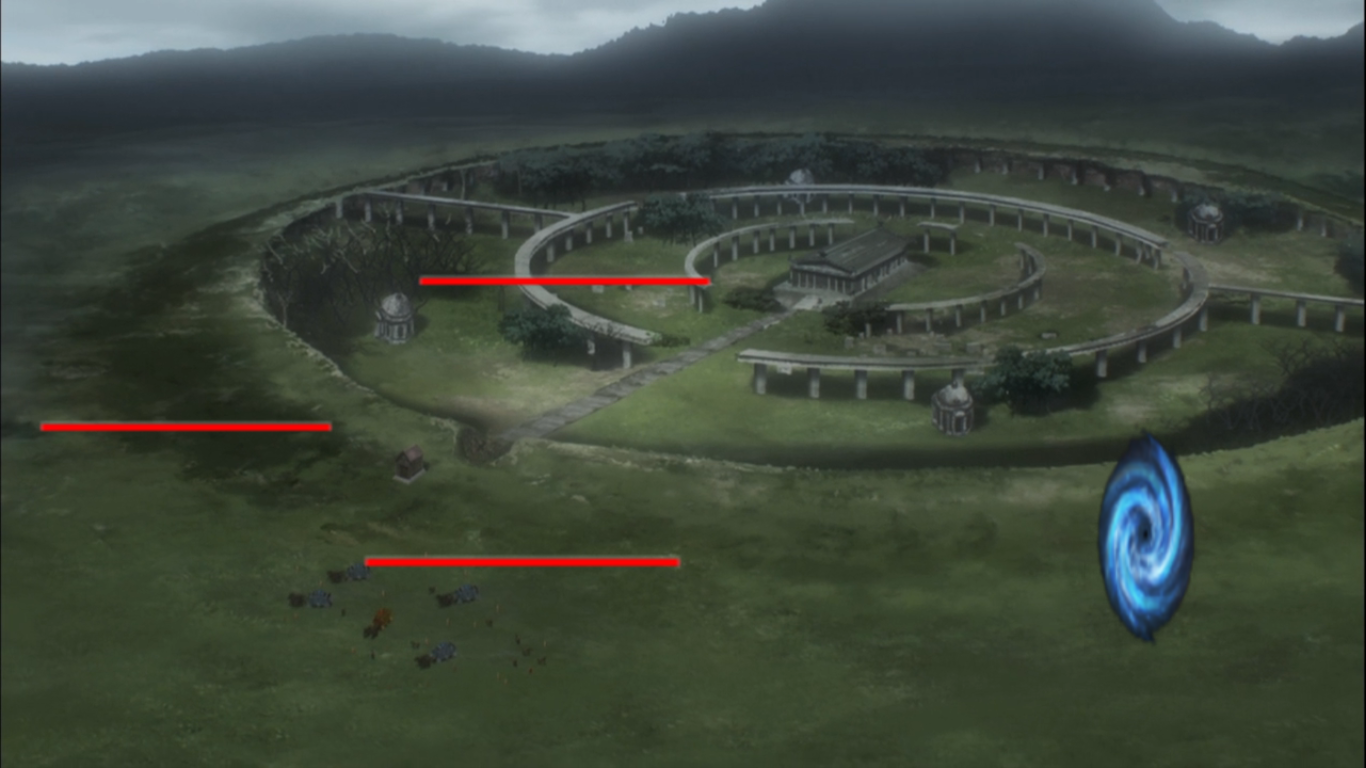
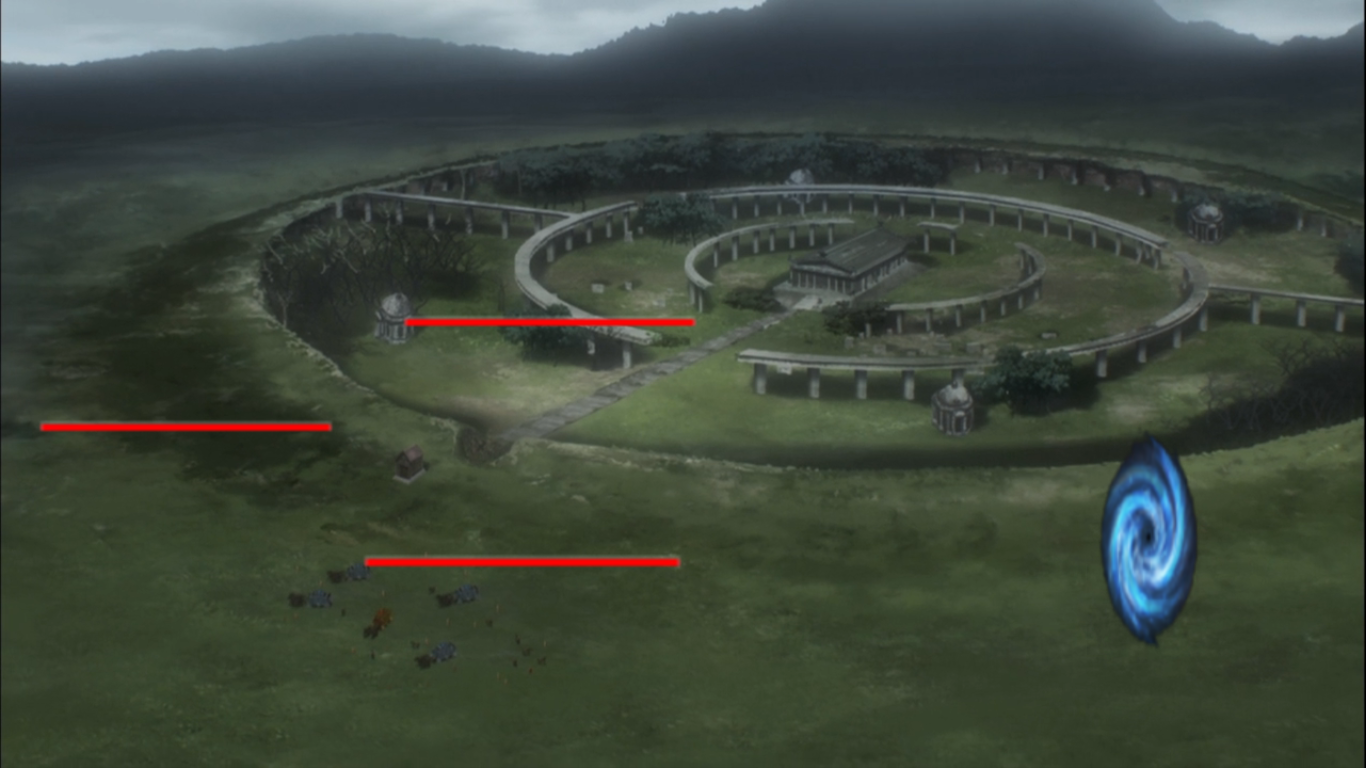
objetivos primer nivel, colisión

Changed region(s): [[0.7994, 0.5938, 0.8917, 0.8125], [0.2767, 0.4062, 0.5227, 0.4375], [0.3075, 0.3438, 0.5227, 0.375]]

diff --git a/juego2020/mainwindow.cpp b/juego2020/mainwindow.cpp
@@ -118,6 +118,10 @@ void MainWindow::niveles(){
         scene->setBackgroundBrush(QPixmap(":/imagen/Overlord_III_EP09_022 (1).png"));
         ui->graphicsView->resize(scene->width(),scene->height());
         this->resize(ui->graphicsView->width()+100, ui->graphicsView->height()+100);
+        anillo1= new Anillo(910,140,50,50);scene->addItem(anillo1);anillos.push_back(anillo1);
+        anillo2= new Anillo(910,305,50,50);scene->addItem(anillo2);anillos.push_back(anillo2);
+        anillo3= new Anillo(910,480,50,50);scene->addItem(anillo3);anillos.push_back(anillo3);
+
         if (n==2){
             contadorparaenemigos();
         }
@@ -165,7 +169,7 @@ void MainWindow::bordercollision(actualizaciones *b)//son los choques con los bo
         if(b->get_posX()>h_limit-b->get_Radio()*2){//colisión con el borde derecho.
             b->set_vel(-1*b->get_e()*b->get_velX(),b->get_velY(), h_limit, b->get_posY());
             n=2;
-            b->set_vel(0,0, 60, 420);
+            b->set_vel(0,0, 60, 20);
             niveles();
         }
         if(b->get_posY()<((b->get_Radio()))){//colisión con el borde superior.
@@ -191,6 +195,15 @@ void MainWindow::bordercollision(actualizaciones *b)//son los choques con los bo
         }
         if(b->get_posY()>v_limit){//choque con el borde inferior.
             b->set_vel(b->get_velX(),-1*b->get_e()*b->get_velY(), b->get_posX(), (v_limit+400));
+        }
+        if (b->get_posY() >= 150 && b->get_posY() < 160 && b->get_posX() >= 330 && b->get_posX() < 670 ){
+            b->set_vel(b->get_velX(), -1*b->get_e()*b->get_velY(),b->get_posX(), 95+b->get_Radio());
+        }
+        if (b->get_posY() >= 282 && b->get_posY() < 292 && b->get_posX() >= 30 && b->get_posX() < 312 ){
+            b->set_vel(b->get_velX(), -1*b->get_e()*b->get_velY(),b->get_posX(), 227+b->get_Radio());
+        }
+        if (b->get_posY() >= 390 && b->get_posY() < 400 && b->get_posX() >= 360 && b->get_posX() < 680 ){
+            b->set_vel(b->get_velX(), -1*b->get_e()*b->get_velY(),b->get_posX(), 335+b->get_Radio());
         }
     }
     if (n==3){
@@ -334,7 +347,7 @@ void MainWindow::keyPressEvent(QKeyEvent *event)
                 b->set_vel(-30,b->get_velY(),b->get_posX(), b->get_posY());     //se conecta con la fución set_vel ubicada en actualizaciones y te pide como parametros velocidad en x y en y, y la posición en x y en y
             }
             if (event->key() == Qt::Key_W){         //con W de salta
-                if(b->get_posY() >= 0 && b->get_posY() < 70){  //restricciones acerca de que partes de puede saltar
+                if(b->get_posY() >= 0 && b->get_posY() < 70|| b->get_posY() == 160|| b->get_posY() == 292|| b->get_posY() == 400){  //restricciones acerca de que partes de puede saltar
                     b->set_vel(b->get_velX(),50,b->get_posX(), b->get_posY());  //se conecta con la fución set_vel ubicada en actualizaciones y te pide como parametros velocidad en x y en y, y la posición en x y en y
                 }
             }

diff --git a/juego2020/anillo.cpp b/juego2020/anillo.cpp
@@ -1,6 +1,47 @@
 #include "anillo.h"
 
-anillo::anillo()
+int Anillo::getX() const
+{
+    return x;
+}
+
+void Anillo::setX(int value)
+{
+    x = value;
+}
+
+int Anillo::getY() const
+{
+    return y;
+}
+
+void Anillo::setY(int value)
+{
+    y = value;
+}
+
+Anillo::Anillo()
 {
 
+}
+
+Anillo::Anillo(int x_, int y_, int w_, int h_)
+{
+    x=x_;
+    y=y_;
+    w=w_;
+    h=h_;
+   // setPos(x,-y);
+}
+
+QRectF Anillo::boundingRect() const
+{
+    return QRect(x,y,w,h);
+}
+
+void Anillo::paint(QPainter *painter, const QStyleOptionGraphicsItem *option, QWidget *widget)
+{
+    QPixmap pixmap;
+    pixmap.load(":/imagen/Ring_of_Ainz_Ooal_Gown (1).png");
+    painter->drawPixmap(boundingRect(),pixmap,pixmap.rect());
 }

diff --git a/juego2020/anillo.h b/juego2020/anillo.h
@@ -1,11 +1,32 @@
 #ifndef ANILLO_H
 #define ANILLO_H
 
+#include <QGraphicsPixmapItem>
+#include <QObject>
+#include <QObject>
+#include <QGraphicsItem>
+#include <QTimer>
+#include <QPixmap>
+#include <QPainter>
 
-class anillo
+class Anillo: public QGraphicsItem
+
 {
+    int x;
+    int y;
+    int w;
+    int h;
+
+
 public:
-    anillo();
+    Anillo();
+    Anillo(int x_,int y_, int w_, int h_);
+    QRectF boundingRect() const;
+    void paint(QPainter *painter, const QStyleOptionGraphicsItem *option, QWidget *widget = Q_NULLPTR);
+    int getX() const;
+    void setX(int value);
+    int getY() const;
+    void setY(int value);
 };
 
 #endif // ANILLO_H

diff --git a/juego2020/magia.cpp b/juego2020/magia.cpp
@@ -23,10 +23,25 @@ void magia::move()
             delete this;
             return;
         }
+        for (int i = 0, n = colliding_items.size();i<n;i++) {
+            if(typeid(*(colliding_items[i])) == typeid(Anillo)){
+
+                    scene()->removeItem(colliding_items[i]);
+                    delete colliding_items[i];
+
+                scene()->removeItem(this);
+                delete this;
+                return;
+            }
+        }
     }
+
+
+
     setPos(x()+10,y());
     if (pos().x() > 1150){
         scene()->removeItem(this);
         delete this;
     }
+
 }

diff --git a/juego2020/mainwindow.h b/juego2020/mainwindow.h
@@ -10,6 +10,7 @@
 #include "actualizaciones.h"
 #include "jugador.h"
 #include <QList>
+#include "anillo.h"
 
 QT_BEGIN_NAMESPACE
 namespace Ui { class MainWindow; }
@@ -21,7 +22,11 @@ class MainWindow : public QMainWindow
 
 public:
     explicit MainWindow(QWidget *parent = nullptr);
-    ~MainWindow();                      //destructor
+    ~MainWindow();                      //destruct
+
+
+    Anillo *anillo1, *anillo2, *anillo3;
+    QList<Anillo*> anillos;
 
 private slots:
     void actualizar();           //actualiza la posicion dependiendo del timer para la colision

diff --git a/juego2020/jugador.cpp b/juego2020/jugador.cpp
@@ -18,7 +18,7 @@ Jugador::Jugador(int x)
     }
     if (x==1){
         posx = 105;
-        posy = 185;
+        posy = 30;
         r = 65;
         mass = 50;
         velx = 0;
@@ -30,7 +30,7 @@ Jugador::Jugador(int x)
     }
     if (x==2){
         posx = 1040;
-        posy = 185;
+        posy = 30;
         r = 65;
         mass = 50;
         velx = 0;

diff --git a/juego2020/magia.h b/juego2020/magia.h
@@ -4,6 +4,8 @@
 #include <QGraphicsPixmapItem>
 #include <QGraphicsScene>
 #include <QTimer>
+#include "anillo.h"
+#include "mainwindow.h"
 
 class magia: public QObject, public QGraphicsPixmapItem
 {
